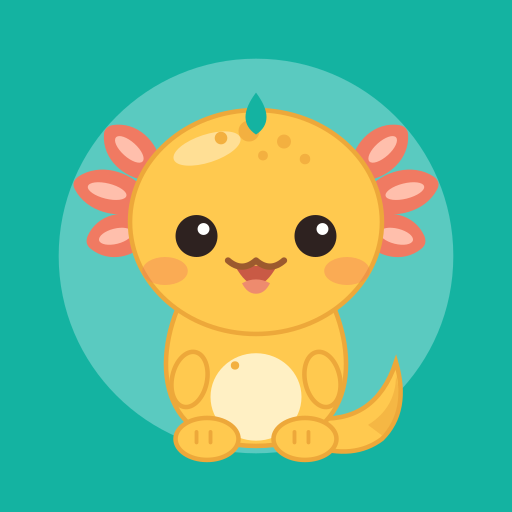
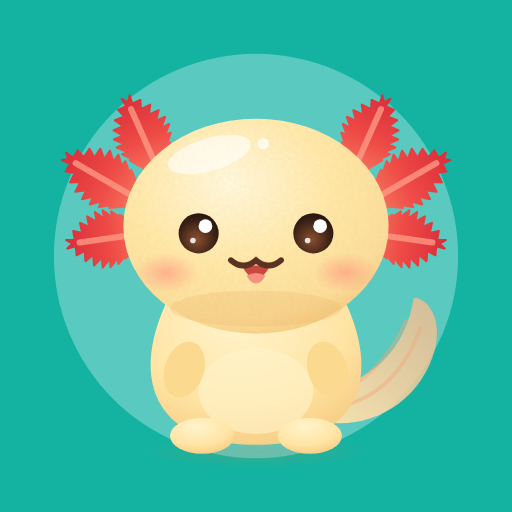
Add files via upload
Change the character face

diff --git a/index.html b/index.html
@@ -337,45 +337,74 @@ const IC={
 function ic(n,s=22,w=2.2){return `<svg width="${s}" height="${s}" viewBox="0 0 24 24" fill="none" stroke="currentColor" stroke-width="${w}" stroke-linecap="round" stroke-linejoin="round" aria-hidden="true">${IC[n]}</svg>`}
 
 /* ---------- Lolo the axolotl ---------- */
+let LUID=0;
 function lolo(mood='happy',size=64,cls=''){
-  const skin='#FFC94F',belly='#FFF0C4',shade='#EDA83A',spotC='#F3B040',gill='#F07A62',gillIn='#FFBFAC',eye='#2E2220',lip='#9C5A2E',ol=`stroke="${shade}" stroke-width="1.3"`;
-  const tilt=mood==='sad'?-20:mood==='cheer'?8:0;
-  const leaf=L=>`M0 -3 C${-L*.3} -7.5 ${-L*.72} -7.5 ${-L*.95} -2.2 Q${-L*1.03} -.2 ${-L*.95} 1.6 C${-L*.72} 7 ${-L*.3} 7 0 3z`;
-  const g=[[31,34,42,19],[28,42,14,21],[29,50,-14,18]].map(([x,y,r,L])=>`<g transform="translate(${x} ${y}) rotate(${r+tilt})"><path d="${leaf(L)}" fill="${gill}"/><ellipse cx="${-L*.52}" cy="-.2" rx="${L*.27}" ry="2.2" fill="${gillIn}"/></g>`).join('');
-  const gills=`<g>${g}</g><g transform="translate(120 0) scale(-1 1)">${g}</g>`;
-  const arms=mood==='cheer'
-    ?`<ellipse cx="36" cy="80" rx="5" ry="8" transform="rotate(-40 36 80)" fill="${skin}" ${ol}/><ellipse class="arm-r" cx="84" cy="80" rx="5" ry="8" transform="rotate(40 84 80)" fill="${skin}" ${ol}/>`
-    :mood==='sad'
-    ?`<ellipse cx="47" cy="96" rx="5" ry="7" transform="rotate(-20 47 96)" fill="${skin}" ${ol}/><ellipse cx="73" cy="96" rx="5" ry="7" transform="rotate(20 73 96)" fill="${skin}" ${ol}/>`
-    :`<ellipse cx="41" cy="93" rx="5" ry="8" transform="rotate(12 41 93)" fill="${skin}" ${ol}/><ellipse class="arm-r" cx="79" cy="93" rx="5" ry="8" transform="rotate(-12 79 93)" fill="${skin}" ${ol}/>`;
-  const eyes=mood==='cheer'
-    ?`<path d="M38 53 q5 -6 10 0" stroke="${eye}" stroke-width="2.8" fill="none" stroke-linecap="round"/><path d="M72 53 q5 -6 10 0" stroke="${eye}" stroke-width="2.8" fill="none" stroke-linecap="round"/>`
-    :mood==='sad'
-    ?`<circle cx="43" cy="53" r="5.4" fill="${eye}"/><circle cx="77" cy="53" r="5.4" fill="${eye}"/><circle cx="44.6" cy="51.4" r="1.5" fill="#fff"/><circle cx="78.6" cy="51.4" r="1.5" fill="#fff"/><path d="M37 45 l8 -3" stroke="${lip}" stroke-width="2" stroke-linecap="round"/><path d="M83 45 l-8 -3" stroke="${lip}" stroke-width="2" stroke-linecap="round"/>`
-    :`<circle cx="43" cy="52" r="6" fill="${eye}"/><circle cx="77" cy="52" r="6" fill="${eye}"/><circle cx="45" cy="50" r="1.7" fill="#fff"/><circle cx="79" cy="50" r="1.7" fill="#fff"/>`;
-  const mouth=mood==='cheer'
-    ?`<path d="M52 59 q8 1.5 16 0 q-1 11 -8 11 q-7 0 -8 -11z" fill="#C95A45"/><path d="M55 66 q5 -3 10 0 q-2 3.5 -5 3.5 q-3 0 -5 -3.5z" fill="#EE8B6E"/>`
-    :mood==='sad'
-    ?`<path d="M54 64 q6 -4.5 12 0" stroke="${lip}" stroke-width="2" fill="none" stroke-linecap="round"/>`
-    :`<path d="M54 60.5 q6 11 12 0z" fill="#C95A45"/><path d="M56 65.5 q4 -2.2 8 0 q-1.5 3 -4 3 q-2.5 0 -4 -3z" fill="#EE8B6E"/><path d="M52 59 q4 3.5 8 0 q4 3.5 8 0" stroke="${lip}" stroke-width="1.8" fill="none" stroke-linecap="round" stroke-linejoin="round"/>`;
-  const extra=mood==='sad'?`<path class="tear" d="M41 60 q-3.5 6 0 8.5 q3.5 -2.5 0 -8.5z" fill="#7CC7FF"/>`
-    :mood==='cheer'?`<g fill="#FFC93C"><path d="M10 12l2 5 5 2-5 2-2 5-2-5-5-2 5-2z"/><path d="M110 6l1.5 3.5 3.5 1.5-3.5 1.5-1.5 3.5-1.5-3.5-3.5-1.5 3.5-1.5z"/></g>`:'';
-  return `<svg class="lolo ${cls}" width="${size}" height="${size}" viewBox="0 0 120 120" aria-hidden="true" style="flex:none">
-  ${extra}
-  <path d="M76 104 q18 2 24 -16 q4 14 -4 22 q-8 6 -20 2z" fill="${skin}" ${ol}/>
-  <path d="M92 106 q8 -5 8 -14 q3 11 -4 17z" fill="${shade}" opacity=".55"/>
-  ${gills}
-  <path d="M41 66 C30 84 30 112 60 112 C90 112 90 84 79 66z" fill="${skin}" ${ol}/>
-  <ellipse cx="60" cy="98" rx="13" ry="12.5" fill="${belly}"/>
-  ${arms}
-  <ellipse cx="46" cy="110" rx="9" ry="6" fill="${skin}" ${ol}/><ellipse cx="74" cy="110" rx="9" ry="6" fill="${skin}" ${ol}/>
-  <path d="M43 108 v3 M47 108 v3 M71 108 v3 M75 108 v3" stroke="${shade}" stroke-width="1.1" stroke-linecap="round"/>
-  <ellipse cx="60" cy="48" rx="36" ry="32" fill="${skin}" ${ol}/>
-  <ellipse cx="46" cy="27" rx="10" ry="4" fill="#fff" opacity=".4" transform="rotate(-18 46 27)"/>
-  <g fill="${spotC}"><circle cx="58" cy="22" r="3"/><circle cx="68" cy="25" r="2"/><circle cx="50" cy="24" r="1.8"/><circle cx="74" cy="30" r="1.5"/><circle cx="62" cy="29" r="1.4"/><circle cx="54" cy="89" r="1.2"/></g>
-  <path d="M60 11 q-6 8 0 12 q6 -4 0 -12z" fill="#14B3A1"/>
-  <ellipse cx="34" cy="62" rx="6.5" ry="4" fill="#F27A5E" opacity=".38"/><ellipse cx="86" cy="62" rx="6.5" ry="4" fill="#F27A5E" opacity=".38"/>
-  ${eyes}${mouth}</svg>`;
+  const u='lo'+(LUID++),ink='#5A3322';
+  const defs=`<defs>
+  <radialGradient id="${u}s" cx="40%" cy="30%" r="75%"><stop offset="0" stop-color="#FFF8DC"/><stop offset=".5" stop-color="#FFE8A8"/><stop offset=".85" stop-color="#FCDD9A"/><stop offset="1" stop-color="#F6CB80"/></radialGradient>
+  <radialGradient id="${u}b" cx="42%" cy="25%" r="85%"><stop offset="0" stop-color="#FFF4CC"/><stop offset=".6" stop-color="#FFE4A4"/><stop offset="1" stop-color="#F5C77C"/></radialGradient>
+  <linearGradient id="${u}g" x1="0" y1="0" x2="1" y2="0"><stop offset="0" stop-color="#D92F3A"/><stop offset=".55" stop-color="#EE4A46"/><stop offset="1" stop-color="#F7775F"/></linearGradient>
+  <linearGradient id="${u}t" x1="0" y1="1" x2="1" y2="0"><stop offset="0" stop-color="#FFE7B0" stop-opacity=".95"/><stop offset="1" stop-color="#F9B98C" stop-opacity=".75"/></linearGradient>
+  <radialGradient id="${u}k"><stop offset="0" stop-color="#FF8A78" stop-opacity=".55"/><stop offset="1" stop-color="#FF8A78" stop-opacity="0"/></radialGradient>
+  <radialGradient id="${u}e" cx="45%" cy="65%" r="65%"><stop offset="0" stop-color="#8A5030"/><stop offset=".7" stop-color="#3C2216"/><stop offset="1" stop-color="#26150E"/></radialGradient>
+  <radialGradient id="${u}f"><stop offset="0" stop-color="#B98A4A" stop-opacity=".22"/><stop offset="1" stop-color="#B98A4A" stop-opacity="0"/></radialGradient>
+  <radialGradient id="${u}w" cx="40%" cy="35%" r="70%"><stop offset="0" stop-color="#FFFFFF"/><stop offset="1" stop-color="#E4F0FF"/></radialGradient>
+  <linearGradient id="${u}d" x1="0" y1="0" x2="0" y2="1"><stop offset="0" stop-color="#BFE3FF"/><stop offset="1" stop-color="#6FB6F2"/></linearGradient>
+  <filter id="${u}n" x="0" y="0" width="100%" height="100%"><feTurbulence type="fractalNoise" baseFrequency=".9" numOctaves="2" seed="4"/><feColorMatrix values="0 0 0 0 .62  0 0 0 0 .42  0 0 0 0 .18  0 0 0 .9 -.25"/></filter>
+  </defs>`;
+  const frond=(L,w)=>{const top=[],bot=[],n=8;for(let i=0;i<=n;i++){const t=i/n,x=-L*(.08+.9*t),k=Math.sin(Math.PI*(.15+.85*t))*.85+.15;
+      top.push(`${x.toFixed(1)},${(-w*.72*k).toFixed(1)}`,`${(x-2.4).toFixed(1)},${(-w*k).toFixed(1)}`);
+      bot.unshift(`${(x-2.4).toFixed(1)},${(w*k).toFixed(1)}`,`${x.toFixed(1)},${(w*.72*k).toFixed(1)}`)}
+    return `M0,-2.5 L${top.join(' L')} L${(-L*1.02).toFixed(1)},0 L${bot.join(' L')} L0,2.5Z`};
+  const tilt=mood==='sad'?-24:mood==='cheer'?8:mood==='sleep'?-6:0;
+  const gl=[[33,35,66,21],[28,43,30,23],[29,52,-8,20]].map(([x,y,r,L])=>`<g transform="translate(${x} ${y}) rotate(${r+tilt})"><path d="${frond(L,8)}" fill="url(#${u}g)" stroke="url(#${u}g)" stroke-width=".6" stroke-linejoin="round"/><path d="M-1 0 L${-L*.92} 0" stroke="#FF9E88" stroke-width="1.7" stroke-linecap="round" opacity=".75"/></g>`).join('');
+  const gills=`<g>${gl}</g><g transform="translate(120 0) scale(-1 1)">${gl}</g>`;
+  const eyesOpen=(r=5.6,y=52)=>[44,76].map(x=>`<circle cx="${x}" cy="${y}" r="${r}" fill="url(#${u}e)"/><circle cx="${x+1.9}" cy="${y-2}" r="${r*.34}" fill="#fff"/><circle cx="${x-1.6}" cy="${y+2}" r="${r*.14}" fill="#fff" opacity=".85"/>`).join('');
+  let eyes,mouth,extraHead='';
+  if(mood==='cheer'){eyes=[44,76].map(x=>`<path d="M${x-6} 54 q6 -7 12 0" stroke="${ink}" stroke-width="2.6" fill="none" stroke-linecap="round"/>`).join('');
+    mouth=`<path d="M52 59.5 q8 1.4 16 0 q-1 11 -8 11 q-7 0 -8 -11z" fill="#C9483F"/><path d="M55 66.5 q5 -3 10 0 q-2 3.6 -5 3.6 q-3 0 -5 -3.6z" fill="#F4917F"/>`}
+  else if(mood==='sad'){eyes=eyesOpen(5.2,54)+`<path d="M37 45.5 q5 -3 10 -1" stroke="${ink}" stroke-width="1.6" fill="none" stroke-linecap="round" opacity=".55"/><path d="M83 45.5 q-5 -3 -10 -1" stroke="${ink}" stroke-width="1.6" fill="none" stroke-linecap="round" opacity=".55"/>`;
+    mouth=`<path d="M54 66 q3 -2.4 6 0 q3 2.4 6 0" stroke="${ink}" stroke-width="1.7" fill="none" stroke-linecap="round"/>`;
+    extraHead=`<path class="tear" d="M40 60 q-3.2 5.4 0 7.6 q3.2 -2.2 0 -7.6z" fill="url(#${u}d)" opacity=".9"/>`}
+  else if(mood==='sleep'){eyes=[44,76].map(x=>`<path d="M${x-6} 53 q6 5 12 0" stroke="${ink}" stroke-width="2.3" fill="none" stroke-linecap="round"/>`).join('');
+    mouth=`<path d="M55 61 q2.5 2.4 5 0 q2.5 2.4 5 0" stroke="${ink}" stroke-width="1.6" fill="none" stroke-linecap="round"/>`}
+  else{eyes=eyesOpen();
+    mouth=`<path d="M56 61 q4 7.5 8 0z" fill="#C9483F"/><path d="M57.4 63.8 q2.6 -1.4 5.2 0 q-1 2.2 -2.6 2.2 q-1.6 0 -2.6 -2.2z" fill="#F4917F"/><path d="M53 59.5 q3.5 3 7 0 q3.5 3 7 0" stroke="${ink}" stroke-width="1.6" fill="none" stroke-linecap="round"/>`}
+  const head=`${gills}
+    <ellipse cx="60" cy="50" rx="37" ry="30" fill="url(#${u}s)"/>
+    <ellipse cx="60" cy="73" rx="24" ry="5" fill="#E9AE5C" opacity=".22"/>
+    <g clip-path="url(#${u}hc)"><rect x="20" y="18" width="80" height="64" filter="url(#${u}n)" opacity=".13"/></g>
+    <ellipse cx="47" cy="30" rx="12" ry="4.6" fill="#fff" opacity=".6" transform="rotate(-16 47 30)"/><circle cx="62" cy="27" r="1.6" fill="#fff" opacity=".7"/>
+    <ellipse cx="35" cy="63" rx="9" ry="5.5" fill="url(#${u}k)"/><ellipse cx="85" cy="63" rx="9" ry="5.5" fill="url(#${u}k)"/>
+    ${eyes}${mouth}${extraHead}`;
+  const clip=`<clipPath id="${u}hc"><ellipse cx="60" cy="50" rx="37" ry="30"/></clipPath>`;
+  const star=(x,y,s)=>`<path d="M${x} ${y-s}Q${x+s*.18} ${y-s*.18} ${x+s} ${y}Q${x+s*.18} ${y+s*.18} ${x} ${y+s}Q${x-s*.18} ${y+s*.18} ${x-s} ${y}Q${x-s*.18} ${y-s*.18} ${x} ${y-s}Z" fill="#FFCF3F"/>`;
+  let body='';
+  if(mood==='sleep'){
+    body=`<ellipse cx="60" cy="108" rx="52" ry="9" fill="url(#${u}w)"/><ellipse cx="34" cy="103" rx="20" ry="9" fill="url(#${u}w)"/><ellipse cx="82" cy="104" rx="24" ry="9" fill="url(#${u}w)"/>
+    <path d="M86 92 C100 90 112 80 114 64 C106 70 98 76 88 80Z" fill="url(#${u}t)"/>
+    <ellipse cx="74" cy="92" rx="30" ry="14" fill="url(#${u}b)"/>
+    <ellipse cx="92" cy="102" rx="7" ry="4" fill="url(#${u}b)"/>
+    <g transform="translate(44 76) rotate(-7) scale(.78) translate(-60 -52)">${head}</g>
+    <ellipse cx="44" cy="100" rx="8" ry="4.5" fill="url(#${u}b)"/>
+    <g class="zzz" fill="#8DB2EE" font-family="Nunito,Poppins,sans-serif" font-weight="900"><text x="8" y="30" font-size="13">z</text><text x="18" y="20" font-size="10">z</text><text x="26" y="12" font-size="8">z</text></g>`;
+  } else {
+    const arms=mood==='cheer'
+      ?`<ellipse cx="35" cy="72" rx="5.5" ry="9.5" transform="rotate(-42 35 72)" fill="url(#${u}b)"/><g class="arm-r"><ellipse cx="85" cy="72" rx="5.5" ry="9.5" transform="rotate(42 85 72)" fill="url(#${u}b)"/></g>`
+      :mood==='sad'
+      ?`<ellipse cx="48" cy="92" rx="5" ry="7.5" transform="rotate(-18 48 92)" fill="url(#${u}b)"/><ellipse cx="72" cy="92" rx="5" ry="7.5" transform="rotate(18 72 92)" fill="url(#${u}b)"/>`
+      :`<ellipse cx="40" cy="90" rx="5.5" ry="8" transform="rotate(18 40 90)" fill="#FBD98F"/><g class="arm-r"><ellipse cx="80" cy="90" rx="5.5" ry="8" transform="rotate(-18 80 90)" fill="#FBD98F"/></g>`;
+    body=`<ellipse cx="60" cy="113" rx="31" ry="4.5" fill="url(#${u}f)"/>
+    <path d="M76 104 C90 108 106 100 110 84 C112 76 108 70 104 70 C102 84 92 94 78 96Z" fill="url(#${u}t)"/>
+    <path d="M84 100 C94 98 102 90 106 78 M82 97 C90 94 98 86 102 76" stroke="#F3A77C" stroke-width="1" fill="none" opacity=".45"/>
+    <path d="M39 64 C24 88 28 111 60 111 C92 111 96 88 81 64Z" fill="url(#${u}b)"/>
+    <ellipse cx="60" cy="96" rx="16" ry="12" fill="#FFF3CC" opacity=".6"/>
+    <ellipse cx="45" cy="108.5" rx="9" ry="5" fill="url(#${u}b)"/><ellipse cx="75" cy="108.5" rx="9" ry="5" fill="url(#${u}b)"/>
+    ${mood==='cheer'?'':arms}
+    <g transform="translate(0 ${mood==='sad'?2.5:0})">${head}</g>
+    ${mood==='cheer'?arms+star(14,20,5)+star(106,14,4)+star(100,40,3):''}`;
+  }
+  return `<svg class="lolo ${cls}" width="${size}" height="${size}" viewBox="0 0 120 120" aria-hidden="true" style="flex:none">${defs.replace('</defs>',clip+'</defs>')}${body}</svg>`;
 }
 
 /* ---------- River illustration ---------- */
@@ -489,7 +518,7 @@ V.success=()=>{const r=R(),n=Math.min(S.today.n,S.dailyGoal);
   <div style="width:100%;max-width:190px;margin:0 auto 18px">${ringSVG(1,1)}</div>
   <div class="stack" style="width:100%"><button class="btn btn-primary" data-act="breakStart">Istirahat 5 menit</button>
   <button class="btn btn-ghost" data-act="retry">Lanjut fokus</button><button class="btn btn-quiet" data-act="go" data-v="home">Selesai</button></div></div>`};
-V.break=()=>`<div class="result"><p class="muted">Istirahat</p><h1>Tarik napas sejenak</h1>
+V.break=()=>`<div class="result">${lolo('sleep',130,'m-float')}<p class="muted">Istirahat</p><h1>Tarik napas sejenak</h1>
   <div class="ring-box sm">${ringSVG(0,S.segDone/R().seg,{knob:false})}</div>
   <div class="timer" id="btime">05 : 00</div><p class="lead">Minum air, regangkan badan, dan jauhkan mata dari layar.</p>
   <div style="width:100%;margin-top:22px"><button class="btn btn-ghost" data-act="breakEnd">Selesai istirahat</button></div></div>`;

diff --git a/sw.js b/sw.js
@@ -1,5 +1,5 @@
 // Klyn service worker: offline app shell + cached Google Fonts
-const CACHE = 'klyn-v1';
+const CACHE = 'klyn-v2';
 const SHELL = ['./', './index.html', './manifest.webmanifest', './icons/icon-192.png', './icons/icon-512.png', './icons/icon-maskable-512.png'];
 
 self.addEventListener('install', e => {
